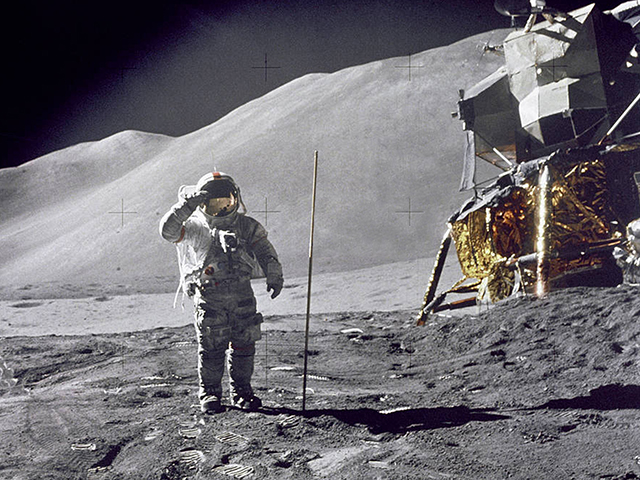
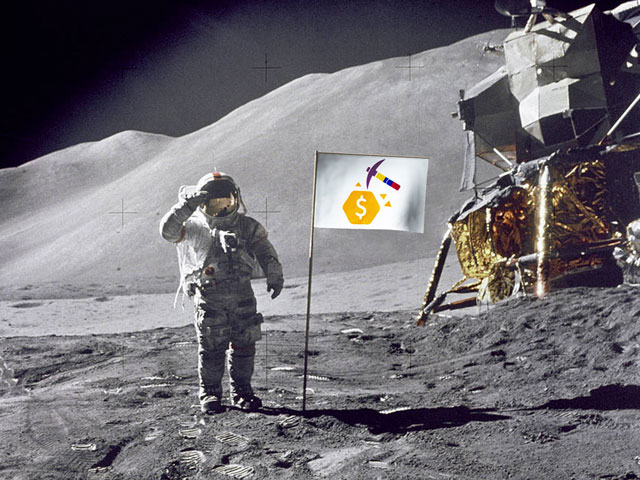
add the flag to the background

diff --git a/assets/js/moon.js b/assets/js/moon.js
@@ -948,7 +948,6 @@
 
 	// Renderer settings
 	var poleOffset  = 260,
-		poleHeight  = 780,
 		topWidth = 100;
 
 	// Renderer variables
@@ -958,9 +957,7 @@
 
 	function init () {
 
-		var light, d,
-			poleGeo, poleMat, poleMesh,
-			topGeo, topMesh;
+		var light, d;
 
 		// Get shaders
 		vertexShader   = document.getElementById( 'vertexShaderDepth' ).textContent;
@@ -1009,39 +1006,13 @@
 		flag = new Flag();
 		flag.setTopEdge( 'top' );
 		flag.setHoisting( 'dexter' );
-		flag.setPosition( 3, 0, 0 );
+		flag.setPosition( -19.5, 258.5, 0 );
 		flag.setTexture( blankTexture );
 		publicFlag = flag.createPublic();
 
-		poleMat = new THREE.MeshPhongMaterial( {
-			color     : 0x9A7A5A,
-			specular  : 0xffffff,
-			metal     : true,
-			shininess : 16
-		} );
+		flag.object.rotation.z = -0.05;
 
-		// Init flag top
-		topWidth = flag.cloth.width + 5;
-		topGeo = new THREE.CylinderGeometry( 3, 3, topWidth );
-		topMesh = new THREE.Mesh( topGeo, poleMat );
-		topMesh.position.y    = 0;
-		topMesh.position.x    = topWidth / 2;
-		topMesh.rotation.z = Math.PI / 2;
-		topMesh.receiveShadow = true;
-		topMesh.castShadow    = true;
-
-		// Init flag pole
-		poleGeo = new THREE.CylinderGeometry( 4.5, 4.5, 10 );
-		poleMesh = new THREE.Mesh( poleGeo, poleMat );
-		poleMesh.position.y    = poleOffset;
-		poleMesh.position.x    = -12;
-		poleMesh.rotation.z    = -0.05;
-		poleMesh.receiveShadow = true;
-		poleMesh.castShadow    = true;
-		poleMesh.add( topMesh );
-		poleMesh.add( flag.object );
-
-		scene.add( poleMesh );
+		scene.add( flag.object );
 		
 		// Init renderer object
 		renderer = new THREE.WebGLRenderer( {
